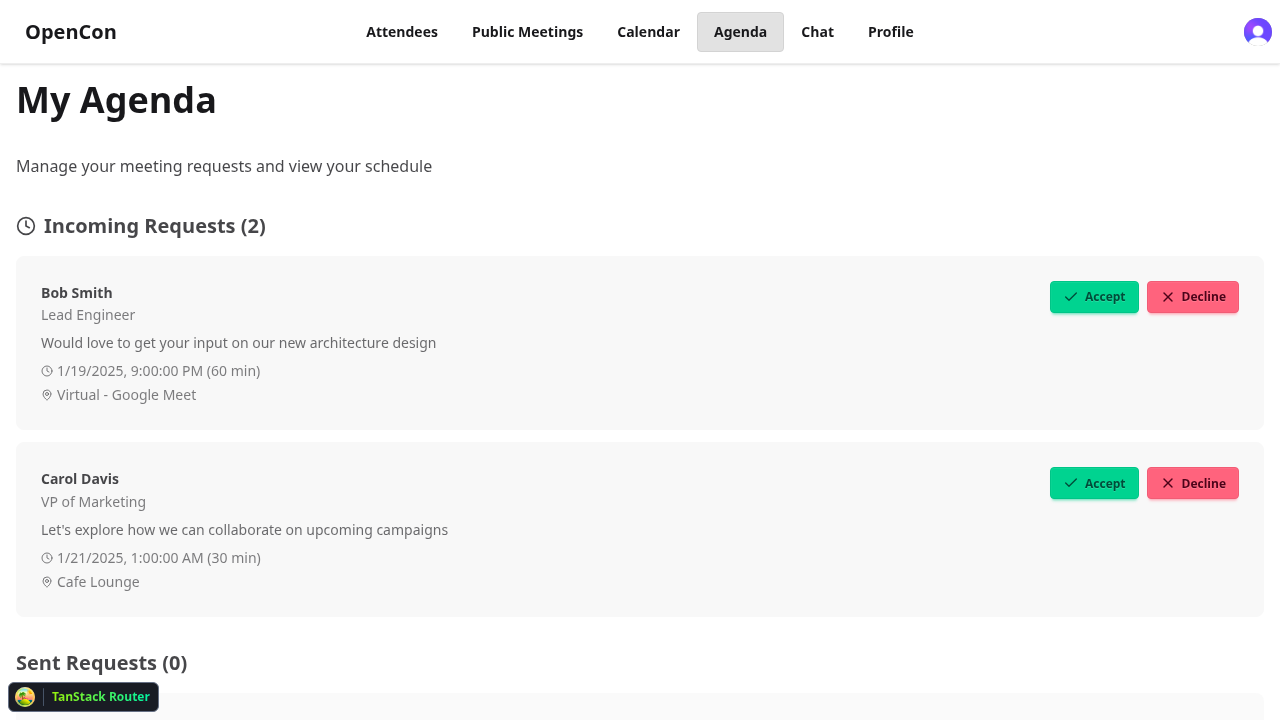
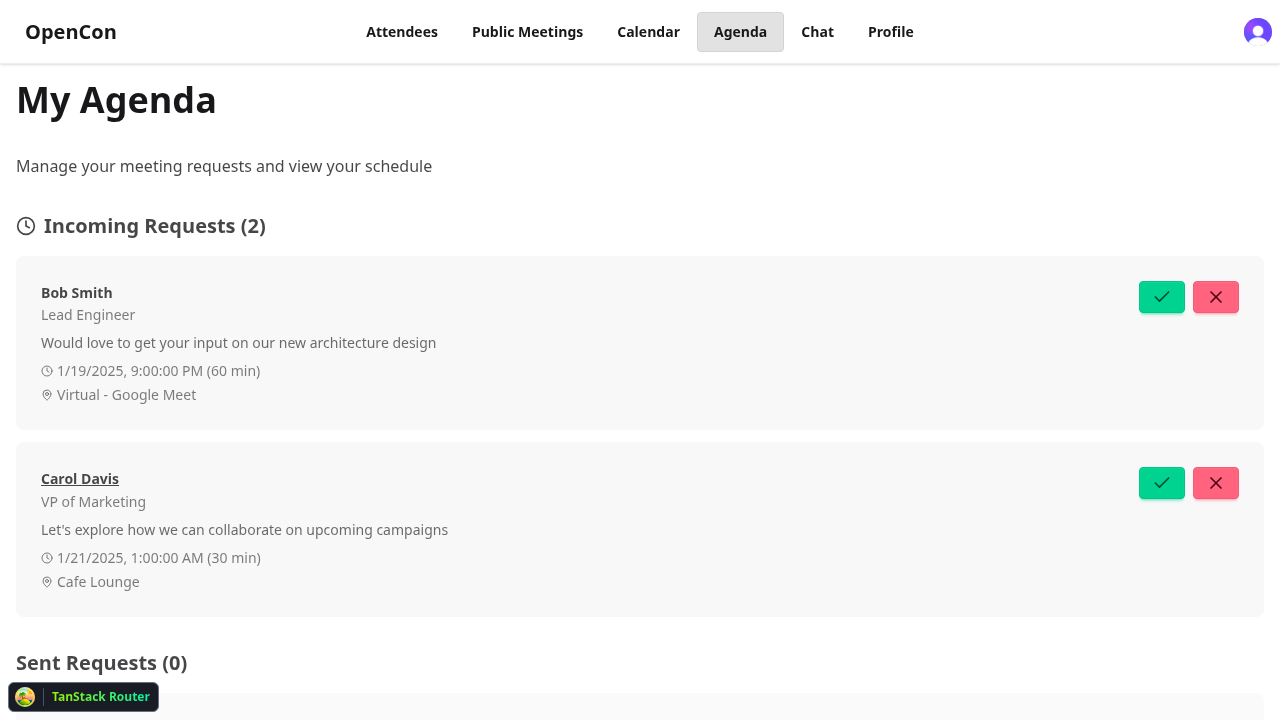
ux improvements

Changed region(s): [[0.8125, 0.3667, 0.9688, 0.4583], [0.8125, 0.6417, 0.9375, 0.7028]]

diff --git a/e2e/app.spec.ts b/e2e/app.spec.ts
@@ -128,7 +128,10 @@ async function signIn(page: import("@playwright/test").Page) {
   await page.getByRole("button", { name: "Sign in", exact: true }).click();
   await page.getByRole("textbox", { name: "Email address" }).fill(TEST_EMAIL);
   await page.getByRole("button", { name: "Continue" }).click();
-  await page.getByRole("textbox", { name: "Enter verification code" }).pressSequentially(CLERK_TEST_CODE);
+  // Wait for verification code input to appear before interacting
+  const codeInput = page.getByRole("textbox", { name: "Enter verification code" });
+  await expect(codeInput).toBeVisible({ timeout: 10000 });
+  await codeInput.pressSequentially(CLERK_TEST_CODE);
   await expect(page.getByRole("button", { name: "Open user menu" })).toBeVisible({ timeout: AUTH_TIMEOUT });
 }
 
@@ -215,9 +218,8 @@ test.describe("E2E User Flow", () => {
 
     // Test meeting detail page - use specific meeting for determinism
     await page.goto("/public-meetings", { waitUntil: "networkidle" });
-    // Click on "Opening Keynote" specifically (not .first() which may vary)
-    await page.getByRole("heading", { name: "Opening Keynote: Future of Tech" })
-      .locator("..").getByRole("link", { name: "Open meeting page" }).click();
+    // Click on "Opening Keynote" specifically - the title is now a clickable link
+    await page.getByRole("link", { name: "Opening Keynote: Future of Tech" }).click();
     await expect(page.getByRole("link", { name: "Back to Calendar" })).toBeVisible();
     await expect(page.getByText(/Participants/)).toBeVisible();
     await screenshot(page, "meeting-detail");
@@ -280,8 +282,10 @@ test.describe("E2E User Flow", () => {
 
     // Click into the chat to see split view (on desktop) or full chat (on mobile)
     await aliceChatLink.click();
-    // Verify first message is visible
-    await expect(page.getByText("Hi Alice! Great to meet you at the conference.").first()).toBeVisible();
+    // Wait for chat to load (check for header with user name)
+    await expect(page.getByText("Alice Johnson").nth(1)).toBeVisible({ timeout: 5000 });
+    // Verify message exists (appears in both mobile/desktop views, so count=2)
+    await expect(page.getByText("Hi Alice! Great to meet you at the conference.")).toHaveCount(2);
     await screenshot(page, "chat-conversation");
 
     await signOut(page);

diff --git a/src/routes/agenda.tsx b/src/routes/agenda.tsx
@@ -1,6 +1,6 @@
 import { convexQuery } from "@convex-dev/react-query";
 import { useSuspenseQuery } from "@tanstack/react-query";
-import { createFileRoute } from "@tanstack/react-router";
+import { createFileRoute, Link } from "@tanstack/react-router";
 import { useMutation, useQuery } from "convex/react";
 import { Calendar, Check, Clock, MapPin, X } from "lucide-react";
 import { useState, useMemo } from "react";
@@ -263,7 +263,17 @@ function IncomingRequestCard({
       <div className="card-body">
         <div className="flex items-start justify-between gap-4">
           <div className="flex-1">
-            <h3 className="font-semibold">{requester?.name ?? "Unknown"}</h3>
+            {requester ? (
+              <Link
+                to="/user/$userId"
+                params={{ userId: requester._id }}
+                className="font-semibold link link-hover"
+              >
+                {requester.name}
+              </Link>
+            ) : (
+              <h3 className="font-semibold">Unknown</h3>
+            )}
             {requester?.role && (
               <p className="text-sm opacity-70">{requester.role}</p>
             )}
@@ -289,17 +299,17 @@ function IncomingRequestCard({
               className="btn btn-success btn-sm"
               onClick={() => void handleRespond(true)}
               disabled={isResponding}
+              title="Accept"
             >
-              <Check className="w-4 h-4" />
-              Accept
+              <Check className="w-5 h-5" />
             </button>
             <button
               className="btn btn-error btn-sm"
               onClick={() => void handleRespond(false)}
               disabled={isResponding}
+              title="Decline"
             >
-              <X className="w-4 h-4" />
-              Decline
+              <X className="w-5 h-5" />
             </button>
           </div>
         </div>

diff --git a/src/components/MeetingCard.tsx b/src/components/MeetingCard.tsx
@@ -101,18 +101,19 @@ export function MeetingCard({
         {/* Header */}
         <div className="flex items-start justify-between gap-2 flex-wrap">
           <div className="flex items-center gap-2">
-            <h3 className={`font-semibold ${isCompact ? "text-lg" : "text-2xl"}`}>
-              {meeting.title}
-            </h3>
-            {showMeetingLink && (
+            {showMeetingLink ? (
               <Link
                 to="/meeting/$meetingId"
                 params={{ meetingId: meeting._id }}
-                className="btn btn-ghost btn-xs btn-square"
-                title="Open meeting page"
+                className={`font-semibold link link-hover ${isCompact ? "text-lg" : "text-2xl"}`}
               >
-                <ExternalLink className="w-3 h-3" />
+                {meeting.title}
+                <ExternalLink className="w-3 h-3 inline ml-1 opacity-50" />
               </Link>
+            ) : (
+              <h3 className={`font-semibold ${isCompact ? "text-lg" : "text-2xl"}`}>
+                {meeting.title}
+              </h3>
             )}
           </div>
           <div className="flex gap-2 flex-wrap">

diff --git a/src/routes/attendees.tsx b/src/routes/attendees.tsx
@@ -115,7 +115,13 @@ function AttendeesPage() {
                     </div>
                   )}
                   <div className="flex-1 min-w-0">
-                    <h3 className="card-title text-base mt-0">{user.name}</h3>
+                    <Link
+                      to="/user/$userId"
+                      params={{ userId: user._id }}
+                      className="card-title text-base mt-0 link link-hover"
+                    >
+                      {user.name}
+                    </Link>
                     {user.role && (
                       <p className="text-sm opacity-80">{user.role}</p>
                     )}
